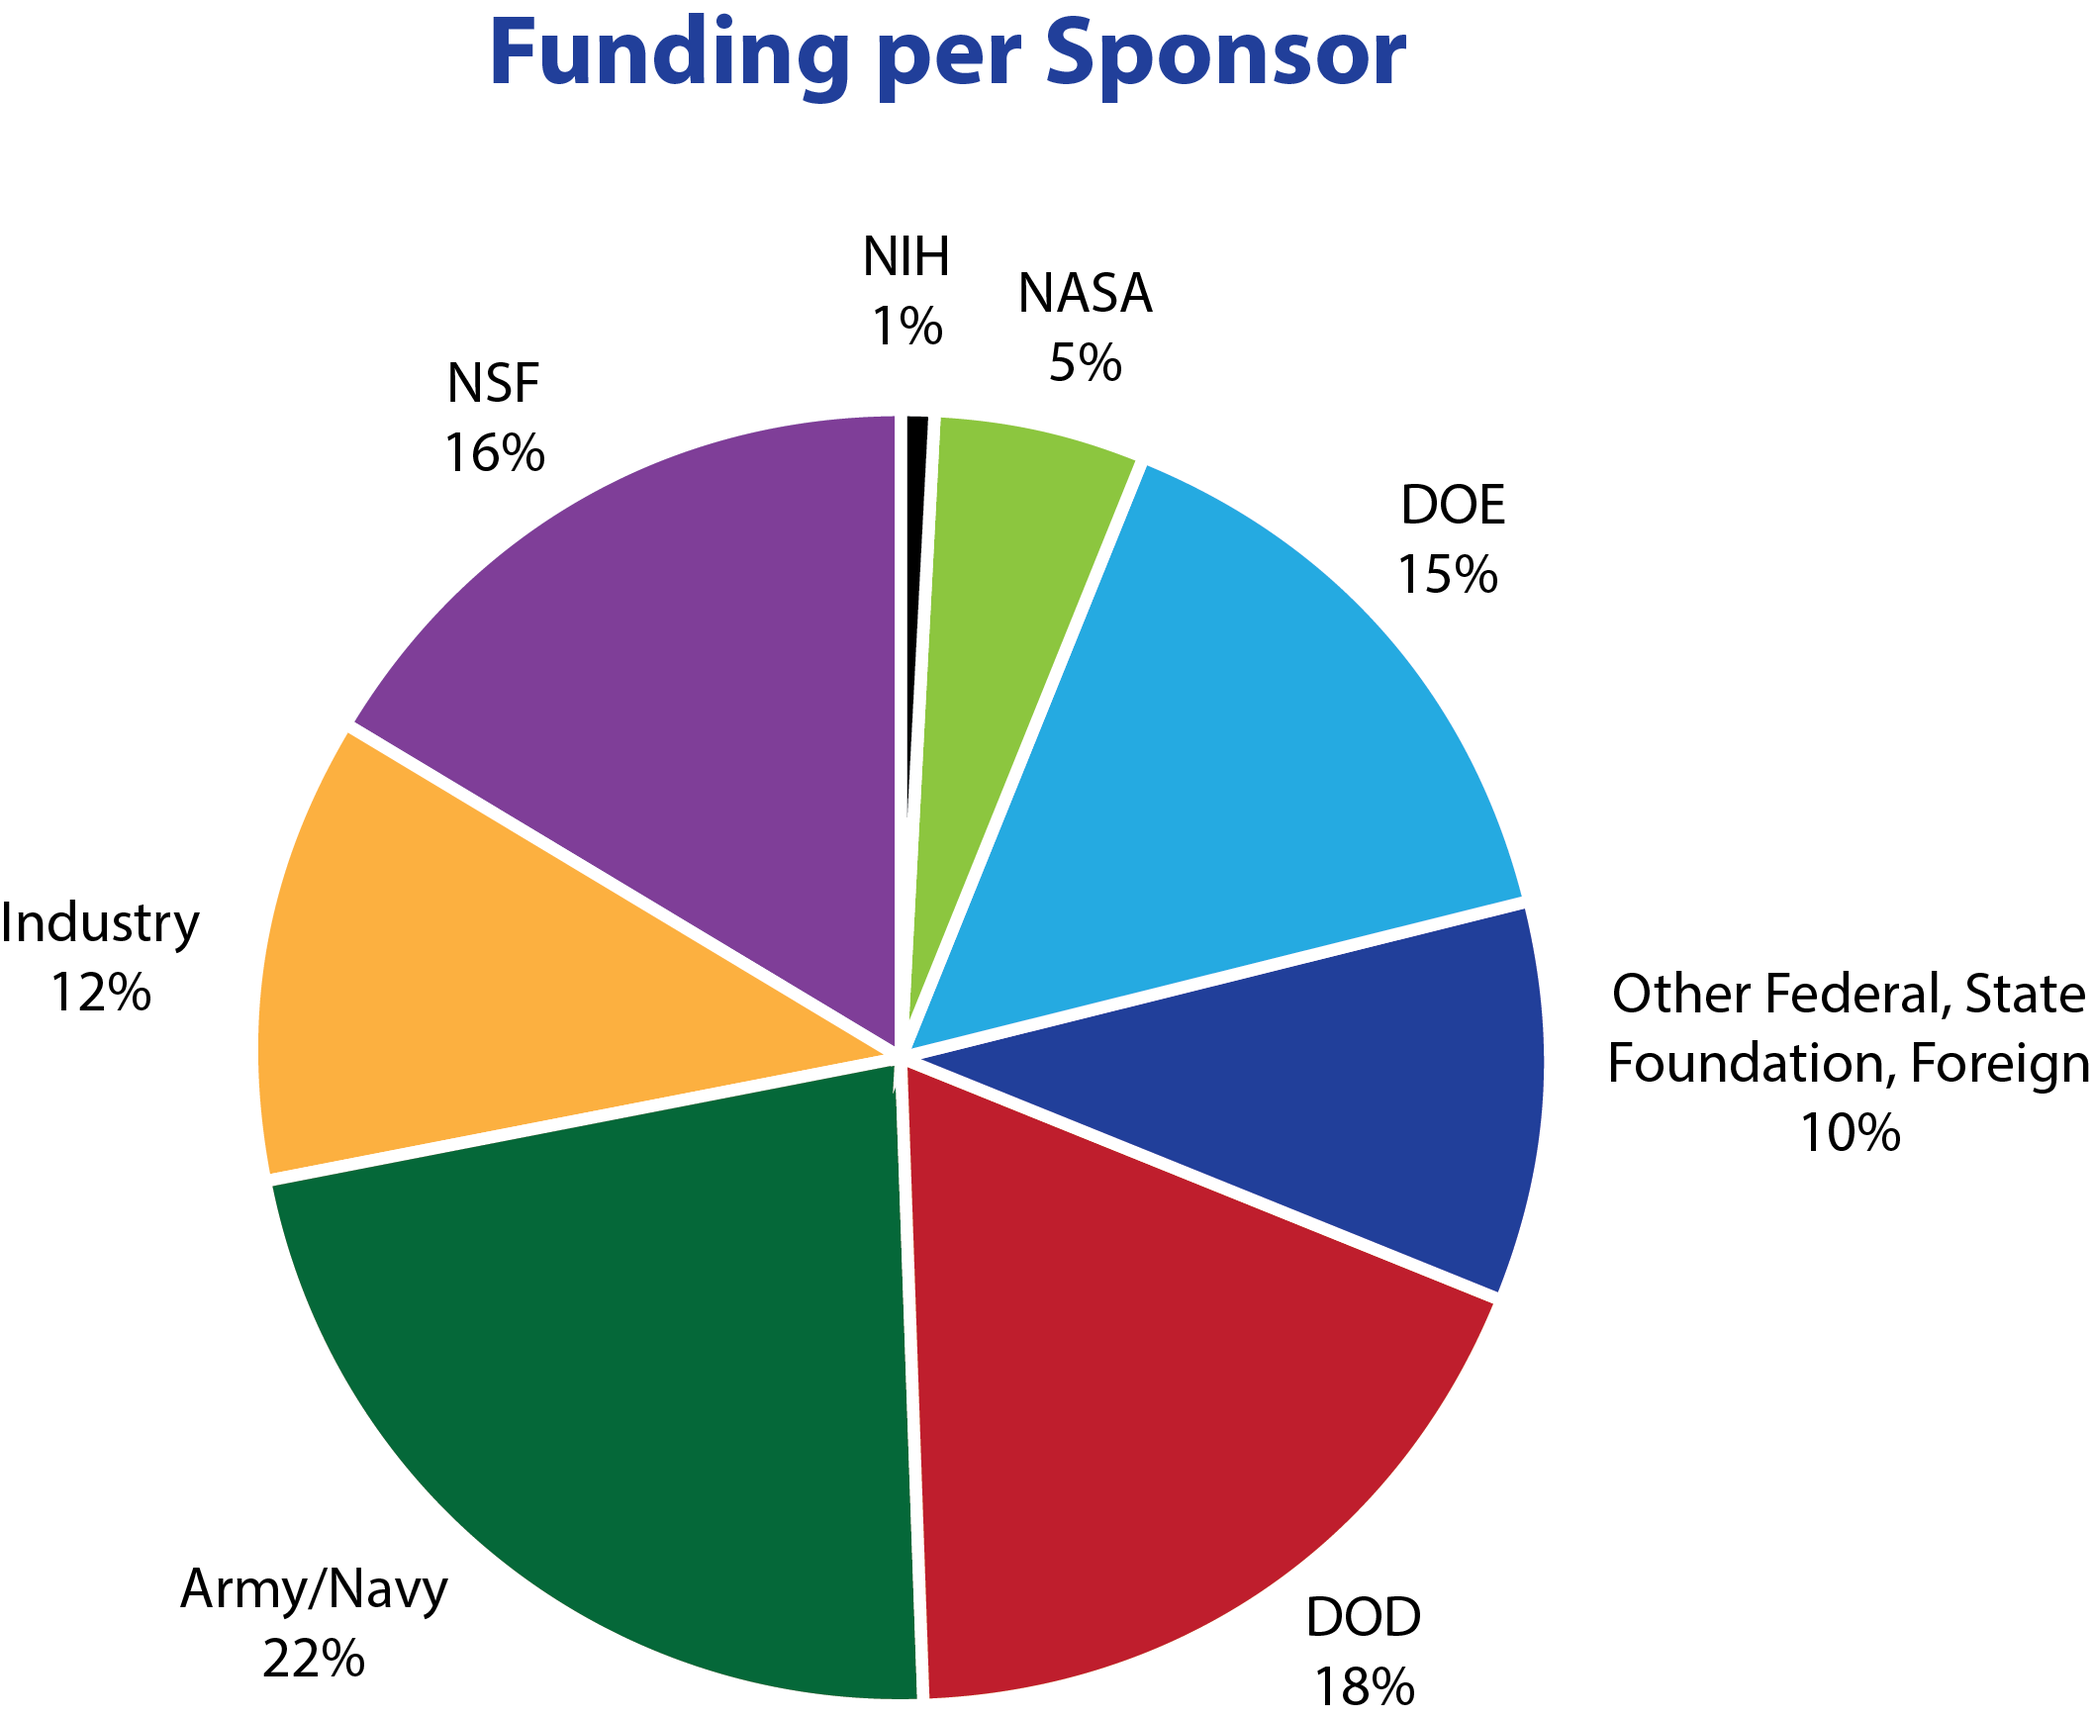
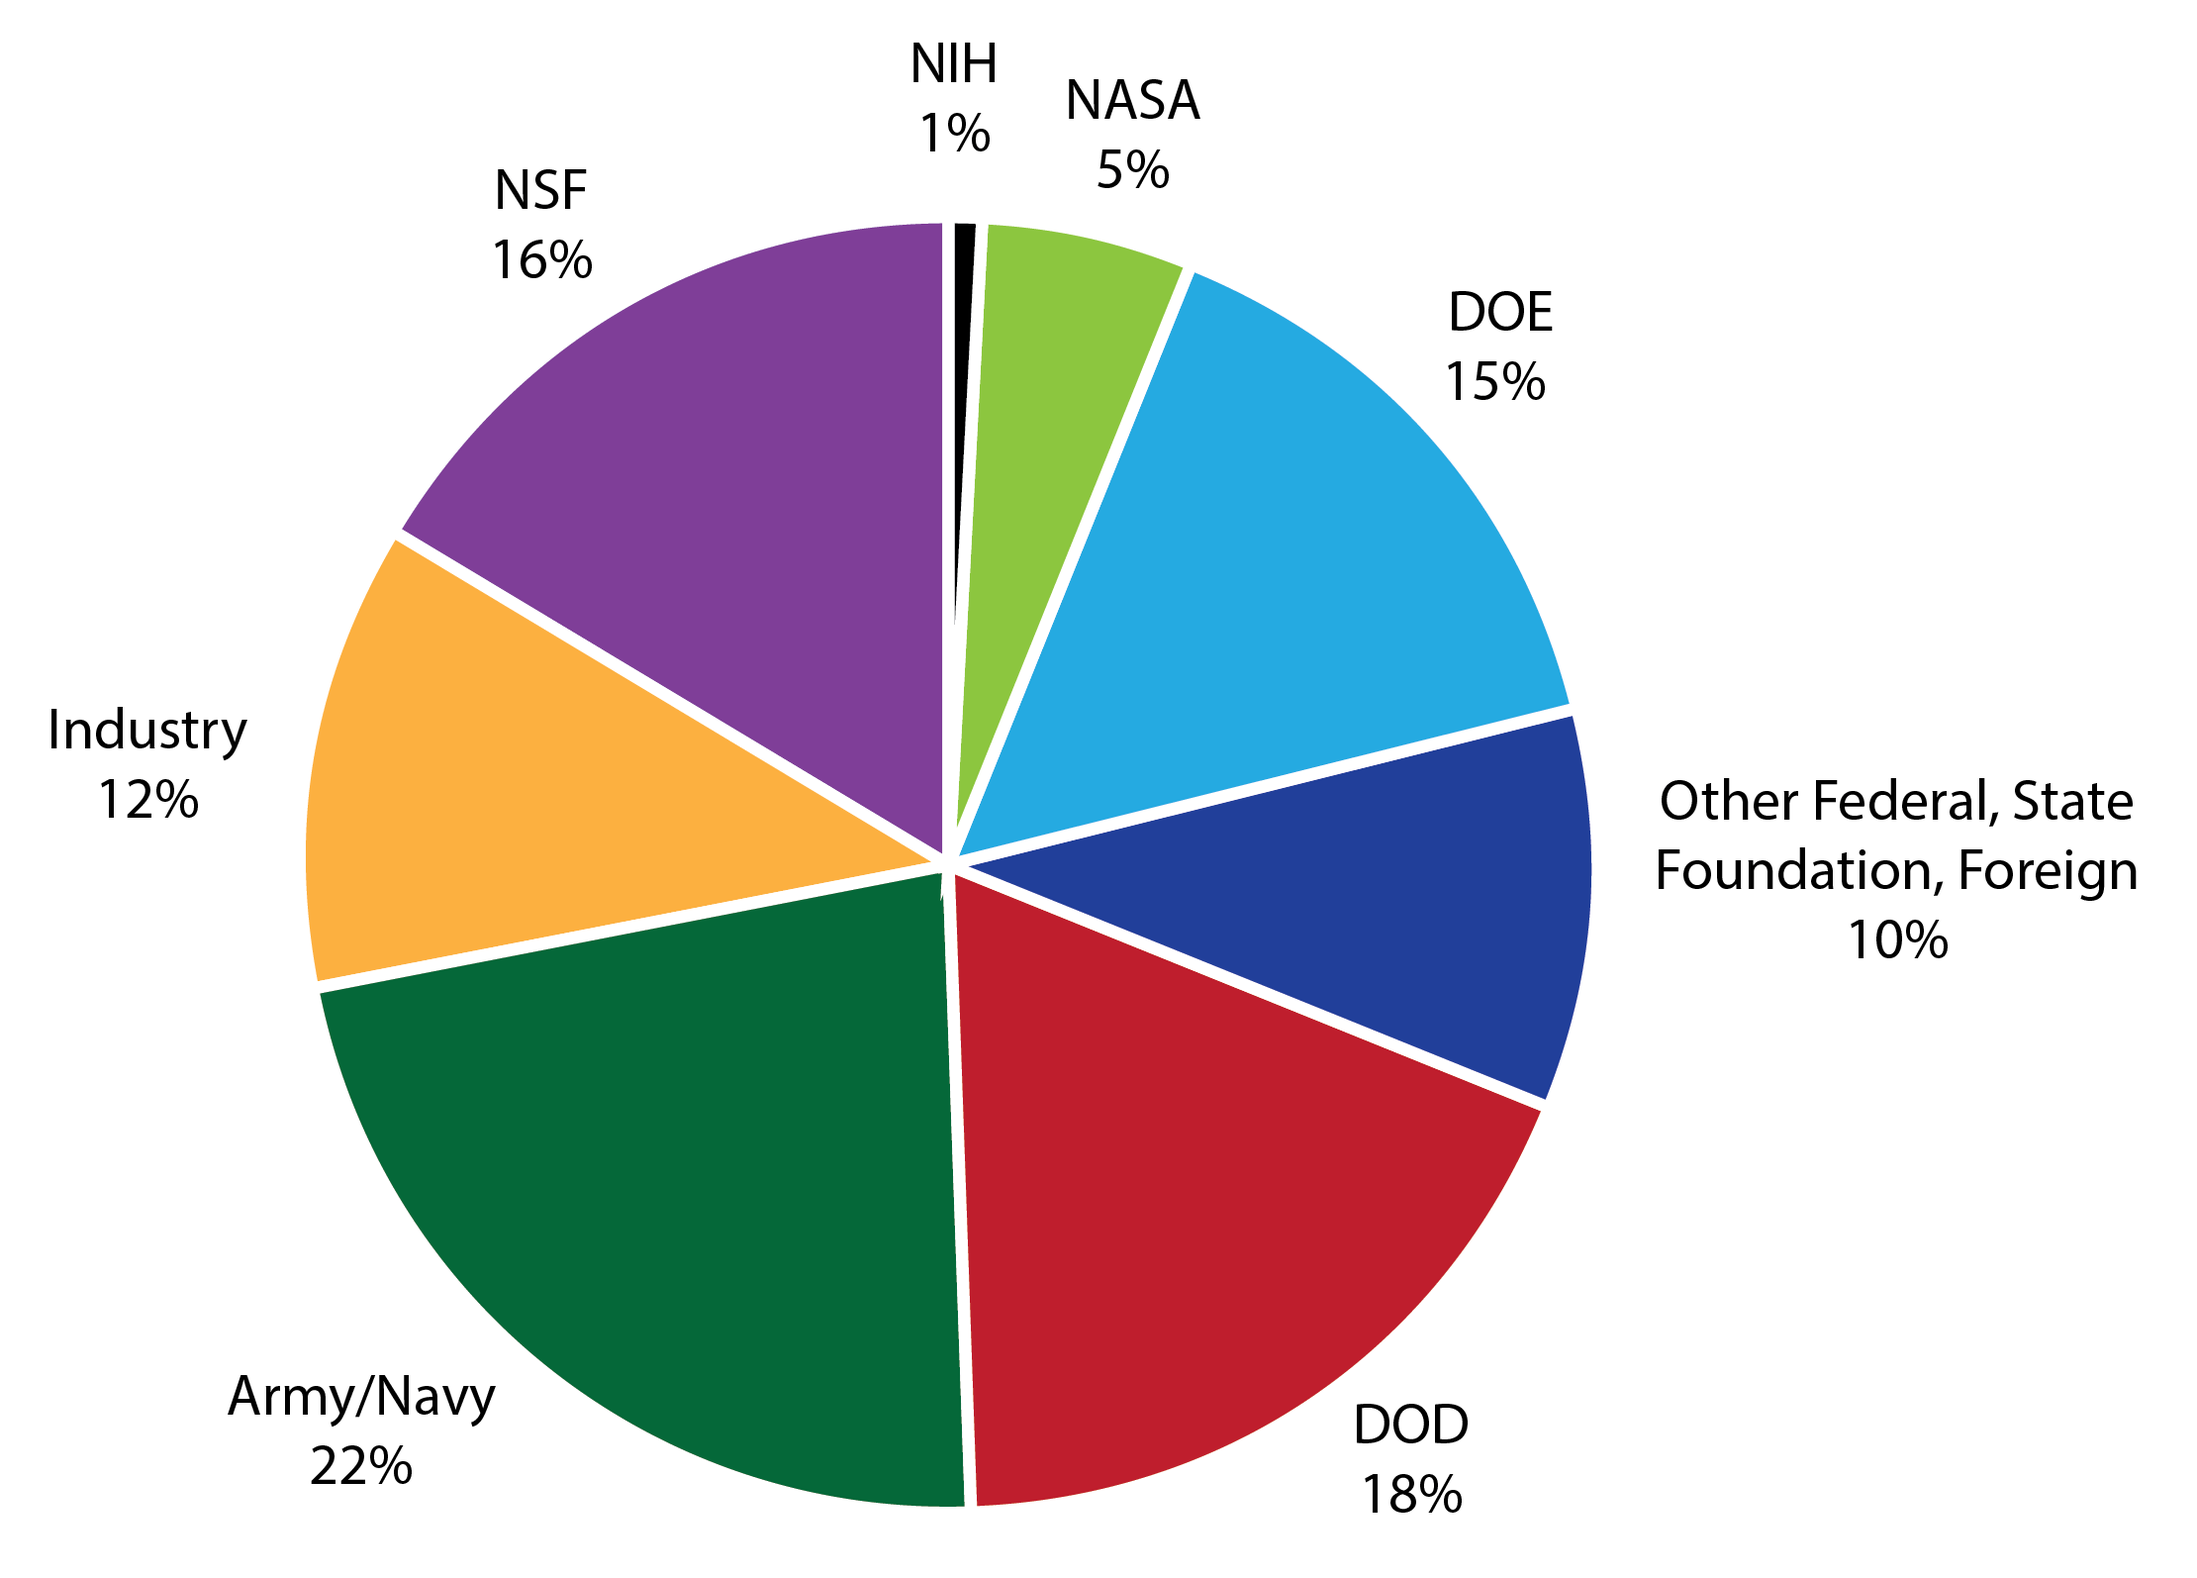
added F unding chart

diff --git a/src/assets/articlesOverview.js b/src/assets/articlesOverview.js
@@ -93,16 +93,16 @@ export const articlesOverview = [
     articleImageAltText4: '',
     articleImageAltText5: '',
     articleImageAltText6: '',
-    articleImageMain: '/img/tunnel-light.jpg',
-    articleImageAltTextMain: 'lit corridor',
-    articleImageProf: '/img/razavi_behzad-book.jpg',
-    articleImageAltTextProf: 'Professor Behzad Razavi',
+    articleImageMain: '/img/sillouette_blackboard.jpg',
+    articleImageAltTextMain: 'Sillouette of womand writing math equations on light whiteboard',
+    articleImageProf: '/img/notebook-laptop.jpg',
+    articleImageAltTextProf: 'note taking on notebook with a laptop open on  desk',
     articleImageCred: '',
     articleAuthor: '',
     articleCaption1: '',
     articleCaption2: '',
     articleCaption3: '',
-    textCopy: ' <div class="grid-cards"> <h3 class="page-title">Book by ECE Faculty published this year</h3> <div class="card-deck"> <div class="card book"> <div class="frame-book"><img class="card-pic book" src="/img/Razavi_DesignOfCMOS.jpg" alt=" Design Of CMOS Razavi Book"></div><div class="frame-prof-book"><img class="card-prof-book" src="/img/razavi_behzad-book.jpg" alt=" Behzad Razavi Design of CMOS Phase-Locked Loops"></div><div class="prof-title">Professor</div><div class="prof-name"> Behzad Razavi</div><div class="prof-title">Design of CMOS Phase-Locked Loops: From Circuit Level to Architecture Level </div></div></div></div>  '
+    textCopy: ' <div class="grid-layout">  <h3 class="page-title">Funding by Sponsor</h3><div class=""> <img class="piechart" src="/img/Funding.png" alt="pie chart with researchg funding sources">  </div>  </div>  '
   },
   {
     articleId: 'facultystaff',

diff --git a/src/scss/grid-layout.scss b/src/scss/grid-layout.scss
@@ -113,7 +113,6 @@
       margin: 0 1em;
     }
   }
-
   .spacer{
     height: 1em;
     margin: 1em 0;
@@ -123,7 +122,12 @@
   .hkn{
     margin-bottom: 1.5em;
   }
-
+  .piechart{
+    // display: grid;
+    // grid-template-columns: 1fr;
+    width: 50%;
+    // height: auto;
+  }
   img.full-width-img {
     width: 100%;
     max-height: 200px;

diff --git a/src/scss/article.scss b/src/scss/article.scss
@@ -242,6 +242,12 @@ img.none {
   grid-template-columns: 1fr 1fr;
   grid-auto-flow: row;
 }
+.grid-cards.piechart{
+  // display: grid;
+  // grid-template-columns: 1fr;
+  width: 50%;
+  // height: auto;
+}
 
 @media only screen and (max-width: 900px) {
   .article {
